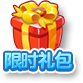
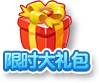
修改加礼包的bug

diff --git a/Classes/gamescene/MainScene.cpp b/Classes/gamescene/MainScene.cpp
@@ -233,7 +233,7 @@ bool MainScene::init()
 		}
 	});
 	//xslb->setVisible(false);
-	if(GameDataInstance()->d_PayType&&vigame::pay::PayManager::getDefaultFeeInfo()&& vigame::pay::PayManager::getDefaultFeeInfo()->getFeePriceByID(4))
+	if(GameDataInstance()->d_PayType&&vigame::pay::PayManager::getDefaultFeeInfo()&& vigame::pay::PayManager::getDefaultFeeInfo()->getFeePriceByID(6))
 		xslb->setVisible(true);
 	else
 		xslb->setVisible(false);
@@ -335,7 +335,7 @@ bool MainScene::init()
 		//
 #endif
 	}
-		
+
 	//签到
 	auto qd = dynamic_cast<ui::Button*>(backcsb->getChildByName("Button_qd"));
 	if (qd)
@@ -769,12 +769,12 @@ void MainScene::xinshouUpdate(float ft)
 	//
 	auto csb=getChildByName("csb");
 
-	//auto xslb = dynamic_cast<ui::Button*>(csb->getChildByName("Button_xslb"));
-	//if (!xslb->isVisible())
-	//{
-	//	if (GameDataInstance()->d_PayType&&vigame::pay::PayManager::getDefaultFeeInfo() && vigame::pay::PayManager::getDefaultFeeInfo()->getFeePriceByID(4))
-	//		xslb->setVisible(true);
-	//}
+	auto xslb = dynamic_cast<ui::Button*>(csb->getChildByName("Button_xslb"));
+	if (!xslb->isVisible())
+	{
+		if (GameDataInstance()->d_PayType&&vigame::pay::PayManager::getDefaultFeeInfo() && vigame::pay::PayManager::getDefaultFeeInfo()->getFeePriceByID(6))
+			xslb->setVisible(true);
+	}
 
 	auto lb = dynamic_cast<ui::Button*>(csb->getChildByName("Button_lb"));
 	if (!lb->isVisible()&&GameData::getSaveData()->_xinshou&&GameDataInstance()->d_PayType&&vigame::pay::PayManager::getDefaultFeeInfo() && (vigame::pay::PayManager::getDefaultFeeInfo()->getFeePriceByID(0) || vigame::pay::PayManager::getDefaultFeeInfo()->getFeePriceByID(7)))

diff --git a/Classes/AppDelegate.cpp b/Classes/AppDelegate.cpp
@@ -81,7 +81,7 @@ bool AppDelegate::applicationDidFinishLaunching() {
 #else
 	GameDataInstance()->BANER_HEIGHT=(Director::getInstance()->getWinSize().width/320.0f)*50*(800.0f/Director::getInstance()->getWinSize().height);	//baner的高�?
 #endif
-	GameDataInstance()->BANER_HEIGHT -= 6;
+	//GameDataInstance()->BANER_HEIGHT -= 6;
 
     // turn on display FPS
     director->setDisplayStats(false);
